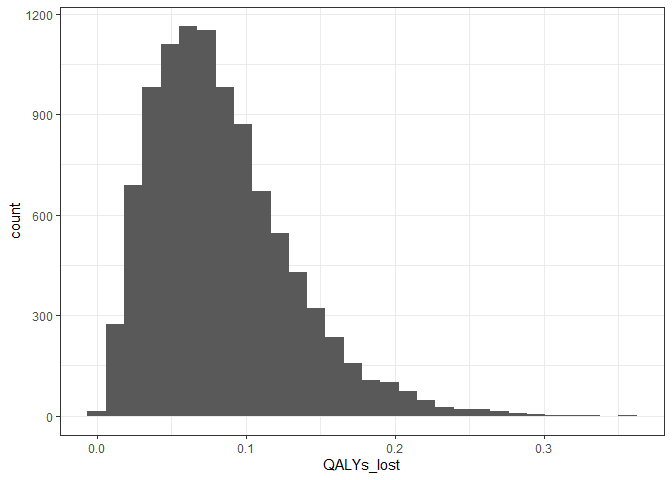
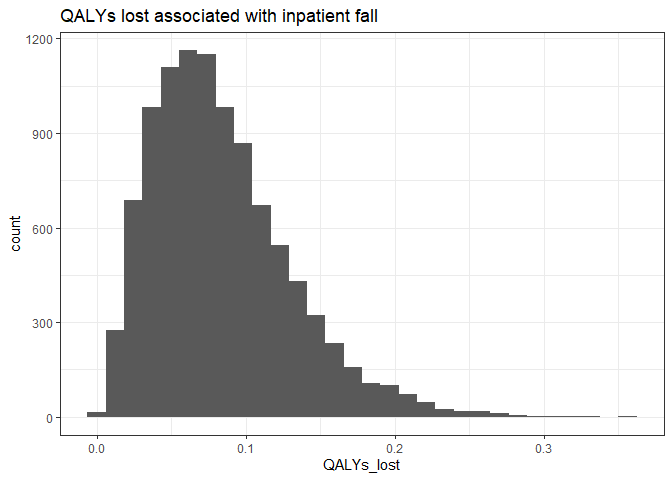
update start of demo-code docs

diff --git a/demo-code/predictNMB-demo.md b/demo-code/predictNMB-demo.md
@@ -5,7 +5,7 @@ If you haven’t already, please install the package.
 
 ``` r
 install.packages("predictNMB", dependencies = "Suggests")
-remotes::install_github("RWParsons/predictNMB", dependencies = "Suggests")
+remotes::install_github("ropensci/predictNMB", dependencies = "Suggests")
 ```
 
 ``` r
@@ -13,6 +13,37 @@ library(predictNMB)
 library(ggplot2)
 library(parallel)
 ```
+
+## pre-`{predictNMB}` primer on the distributions we will be using.
+
+We will be using different distributions to sample different inputs for
+our simulation. A gamma distribution is often appropriate when sampling
+\$ and a beta distribution is often best when sampling QALYs due to the
+shape and limits being sensible (the cost of treatment is unlikely be to
+be negative and QALYs are bounded to be between 0 and 1, similar to a
+probability of an event). We can sample from these distributions using R
+code with the `rgamma()` and `rbeta()` functions:
+
+``` r
+data.frame(QALYs_lost = rbeta(10000, shape1 = 2.95, shape2 = 32.25)) |>
+  ggplot(aes(x = QALYs_lost)) + 
+  geom_histogram() +
+  theme_bw() +
+  labs(title = "QALYs lost associated with inpatient fall")
+```
+
+![](predictNMB-demo_files/figure-commonmark/unnamed-chunk-4-1.png)
+
+``` r
+data.frame(fall_costs = rgamma(10000, shape = 22.05, rate = 0.0033)) |>
+  ggplot(aes(x = fall_costs)) + 
+  geom_histogram() +
+  theme_bw() +
+  labs(title = "Healthcare costs associated with inpatient fall") +
+  scale_x_continuous(labels = scales::dollar_format())
+```
+
+![](predictNMB-demo_files/figure-commonmark/unnamed-chunk-4-2.png)
 
 ## Example problem and inputs required - inpatient falls
 
@@ -41,6 +72,19 @@ described in (Parsons et al. 2023). We used `{fitdistrplus}` but you can
 also use a shiny app by Nicole White and Robin Blythe: `ShinyPrior`
 (White and Blythe 2023).
 
+| Input                     | Distribution                                         | R code                                         |
+|---------------------------|------------------------------------------------------|------------------------------------------------|
+| QALYs lost                | $$\mathrm{B}(\alpha = 2.95, \beta = 32.25)$$         | `rbeta(n = 1, shape1 = 2.95, shape2 = 32.25`   |
+| Healthcare costs          | $$\Gamma (\alpha = 22.05, \beta = 0.0033) $$         | `rgamma(n = 1, shape = 22.05, rate = 0.0033)`  |
+| Treatment effect (hazard) | $$\exp(\mathcal{N}(\mu = -0.844, \sigma = 0.304)) $$ | `exp(rnorm(n = 1, mean = -0.844, sd = 0.304))` |
+| Treatment cost            | \$77.30                                              | \-                                             |
+| WTP                       | \$28033                                              | \-                                             |
+
+We will be using these sampling functions within our NMB sampling
+functions!
+
+![](https://media1.giphy.com/media/7pHTiZYbAoq40/giphy.gif)
+
 ## Objectives/Questions
 
 - We have a prediction model which has an AUC of about 0.8 and we want
@@ -55,41 +99,6 @@ also use a shiny app by Nicole White and Robin Blythe: `ShinyPrior`
 
 - We think we can improve the performance of the model up to 0.95 with
   some extra effort by the models - would this change our conclusion?
-
-## pre-`{predictNMB}` primer on the distributions we will be using.
-
-We will be using different distributions to sample different inputs for
-our simulation. A gamma distribution is often appropriate when sampling
-\$ and a beta distribution is often best when sampling QALYs due to the
-shape and limits being sensible (the cost of treatment is unlikely be to
-be negative and QALYs are bounded to be between 0 and 1, similar to a
-probability of an event). We can sample from these distributions using R
-code with the `rgamma()` and `rbeta()` functions - for example, here are
-the distributions above for the healthcare costs and the QALYs
-associated with a fall:
-
-``` r
-data.frame(QALYs_lost = rbeta(10000, shape1 = 2.95, shape2 = 32.25)) |>
-  ggplot(aes(x = QALYs_lost)) + 
-  geom_histogram() +
-  theme_bw()
-```
-
-![](predictNMB-demo_files/figure-commonmark/unnamed-chunk-4-1.png)
-
-``` r
-data.frame(fall_costs = rgamma(10000, shape = 22.05, rate = 0.0033)) |>
-  ggplot(aes(x = fall_costs)) + 
-  geom_histogram() +
-  theme_bw()
-```
-
-![](predictNMB-demo_files/figure-commonmark/unnamed-chunk-4-2.png)
-
-We will be using these sampling functions within our NMB sampling
-functions!
-
-![](https://media1.giphy.com/media/7pHTiZYbAoq40/giphy.gif)
 
 ## `{predictNMB}`
 
@@ -109,6 +118,8 @@ training_sampler <- get_nmb_sampler()
 cl <- makeCluster(detectCores() - 1)
 
 primary_sim <- do_nmb_sim()
+
+# primary_sim <- readRDS(file.path(here::here("demo-code", "saved-sims"), "primary_sim.rds"))
 ```
 
 ### Interpreting our results
@@ -124,6 +135,8 @@ ce_plot(primary_sim)
 ``` r
 acute_care_sim <- do_nmb_sim()
 
+# acute_care_sim <- readRDS(file.path(here::here("demo-code", "saved-sims"), "acute_care_sim.rds"))
+
 summary(acute_care_sim)
 autoplot(acute_care_sim)
 ce_plot(acute_care_sim)
@@ -133,6 +146,8 @@ ce_plot(acute_care_sim)
 
 ``` r
 auc_screen <- screen_simulation_inputs()
+
+# auc_screen <- readRDS(file.path(here::here("demo-code", "saved-sims"), "auc_screen.rds"))
 ```
 
 # References
